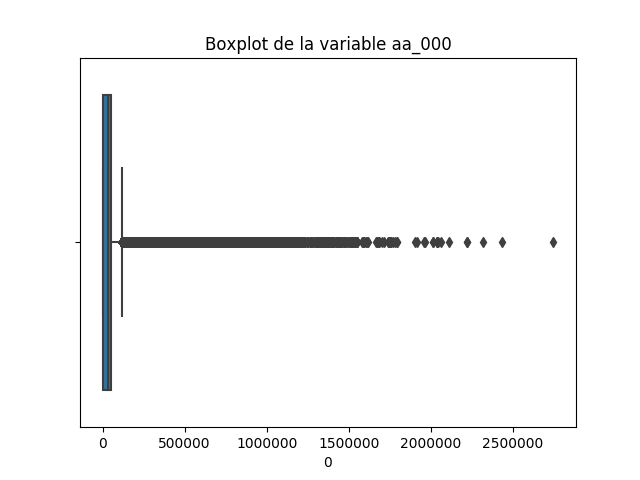
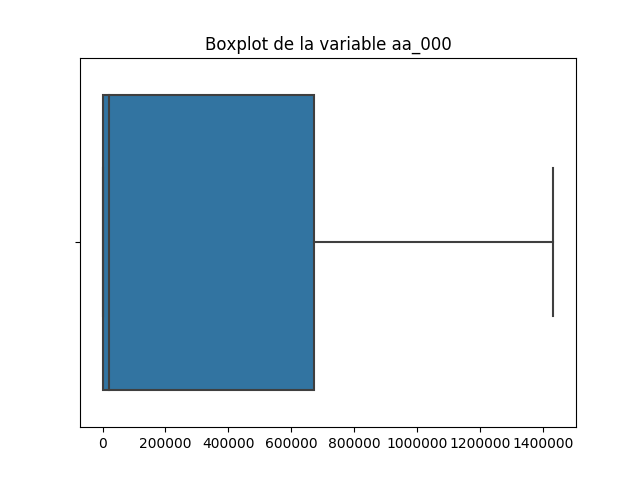
Justificación de la normalización

Changed region(s): [[0.1562, 0.1875, 0.875, 0.8125], [0.2188, 0.9062, 0.9062, 0.9688]]

diff --git a/dataset.py b/dataset.py
@@ -5,6 +5,7 @@
 import csv
 import matplotlib.pyplot as plt
 import numpy as np
+import seaborn as sns
 from sklearn.preprocessing import StandardScaler
 from sklearn.impute import SimpleImputer
 from sklearn.ensemble import IsolationForest
@@ -47,15 +48,13 @@ class DataSet:
         reader = list(csv.reader(csv_file))[20:]
         reader = np.array(reader)
 
-        var_names = [l for l in reader[0, 1:]]
+        self.var_names = [l for l in reader[0, 1:]]
 
         variables = np.array(
             list(list(map(lambda x: np.nan if x == 'na' else np.float(x), l))
                  for l in reader[1:, 1:]))
         output = np.fromiter(map(lambda x: -1 if x == "neg" else 1,
                                  reader[1:, 0]), dtype=np.int)
-
-        self.var_names = var_names
 
         csv_file.close()
 
@@ -68,13 +67,13 @@ class DataSet:
         print("Preprocesamiento de datos para clasificación")
 
         # Impute missing values
-        # TODO: si la estrategia de imputación es la de la media, se puede simplemente poner los NaN a 0 tras normalizar
         self.__impute_missing_values()
-
         self.__remove_outliers()
 
         if normalization:
             self.__normalize()
+        
+
 
     def __impute_missing_values(self):
         """
@@ -129,7 +128,7 @@ class DataSet:
         # new version, if we do not set these parameters it would
         # be a deprecated version of IsolationForest
         num_var = len(data[0])
-        outliers_IF = IsolationForest(behaviour="new", contamination="auto", n_estimators=num_var*2)
+        outliers_IF = IsolationForest(behaviour="new", contamination="auto", n_estimators=num_var)
         data_with_obj_class = data[classes == obj_class]
         outliers_IF.fit(data_with_obj_class)
 
@@ -181,11 +180,10 @@ class DataSet:
         if show:
             plt.show()
 
-    @staticmethod
-    def plot_boxplot_with_outliers(data, index, file=None):
-        import seaborn as sns
-        sns.boxplot(x=data[index])
-        plt.title(f'Boxplot de la variable aa_000')
+
+    def plot_boxplot(self, data, index, show_outliers=False, file=None):
+        sns.boxplot(x=data[index], showfliers=show_outliers)
+        plt.title(f'Boxplot de la variable {self.var_names[index]}')
         if file is not None:
             plt.savefig(file)
         plt.show()

diff --git a/main.py b/main.py
@@ -9,7 +9,6 @@ Autores:
 """
 
 from dataset import *
-#from imputer import *
 from sklearn.decomposition import PCA
 from sklearn.linear_model import Perceptron
 from sklearn.metrics import make_scorer, accuracy_score
@@ -98,8 +97,10 @@ def load_all_models(model_names):
 
 
 # Classification data
-ds = get_aps_dataset(small=True)
+ds = get_aps_dataset(small=False)
 ds.preprocess()
+
+exit()
 
 """
 # Lectura de modelos

diff --git a/memoria.md b/memoria.md
@@ -87,12 +87,12 @@ TODO: citar imagen
 https://cs.nju.edu.cn/zhouzh/zhouzh.files/publication/icdm08b.pdf
 
 
-El número de iteraciones es deseable adaptarlo en función del problema, por ejemplo respecto al número de variables del conjunto, usaremos $\{numero de variables\}*2$ iteraciones para tener un ajuste suficiente para el problema.
+El número de iteraciones es deseable adaptarlo en función del problema, por ejemplo respecto al número de variables del conjunto, usaremos $\{numero de variables\}$ iteraciones para tener un ajuste suficiente para el problema.
 Al tener suficientes datos podemos permitirnos que la muestra aleatoria que se usa para entrenar cada árbol sea sin reemplazamiento.
 La proporción esperada de outliers está fijada como se especifica en el paper original, alrededor del 10% de los datos.
 A continuación se visualiza la evolución de la distribución de valores de una variable.
 
-![](./imgs/boxplot_aa_000.png){ width=50% } ![](./imgs/new_boxplot_aa_000.png){ width=50% }
+![](./imgs/boxplot_aa_000_with_outliers.png){ width=50% } ![](./imgs/new_boxplot_aa_000_with_outliers.png){ width=50% }
 
 Cada imagen es un boxplot sin tener en cuenta candidatos a outliers si se usase una técnica univariable, posteriormente se han añadido dichos elementos como rombos.
 En el primer gráfico se han calculado los candidatos a outliers respecto a una variable, todo esto dentro del conjunto de entrenamiento y con la clase positiva, aplicar detección de outliers sobre el test no tiene sentido.
@@ -116,7 +116,11 @@ La desventaja de este análisis es que de que se pierde interpretabilidad de los
 Como a priori no sabemos con cuántas variables nos queremos quedar ni si es buena idea reducirlas, probaremos distintos porcentajes de varianza explicada (incluyendo el 100%, que supondría no reducir el número de variables) y se elegirá el mejor por valoración cruzada.
 
 
-## Normalización de datos
+# Normalización de datos
+
+Solamente viendo los boxplots de las dos primeras variables se aprecia que hay cambios de magnitud en las variables y que sería deseable realizar algún tipo de normalización.
+
+![](./imgs/boxplot_aa_000.png){ width=50% } ![](./imgs/boxplot_ab_000.png){ width=50% }
 
 Los datos se han normalizado mediante una transformación lineal para que cada variable tenga media nula y desviación estándar 1. El objetivo de esta transformación es que los modelos no estén sesgados hacia dar más peso a determinadas variables. De este modo, dos valores iguales para variables distintas representan valores igual de extremos.
 
